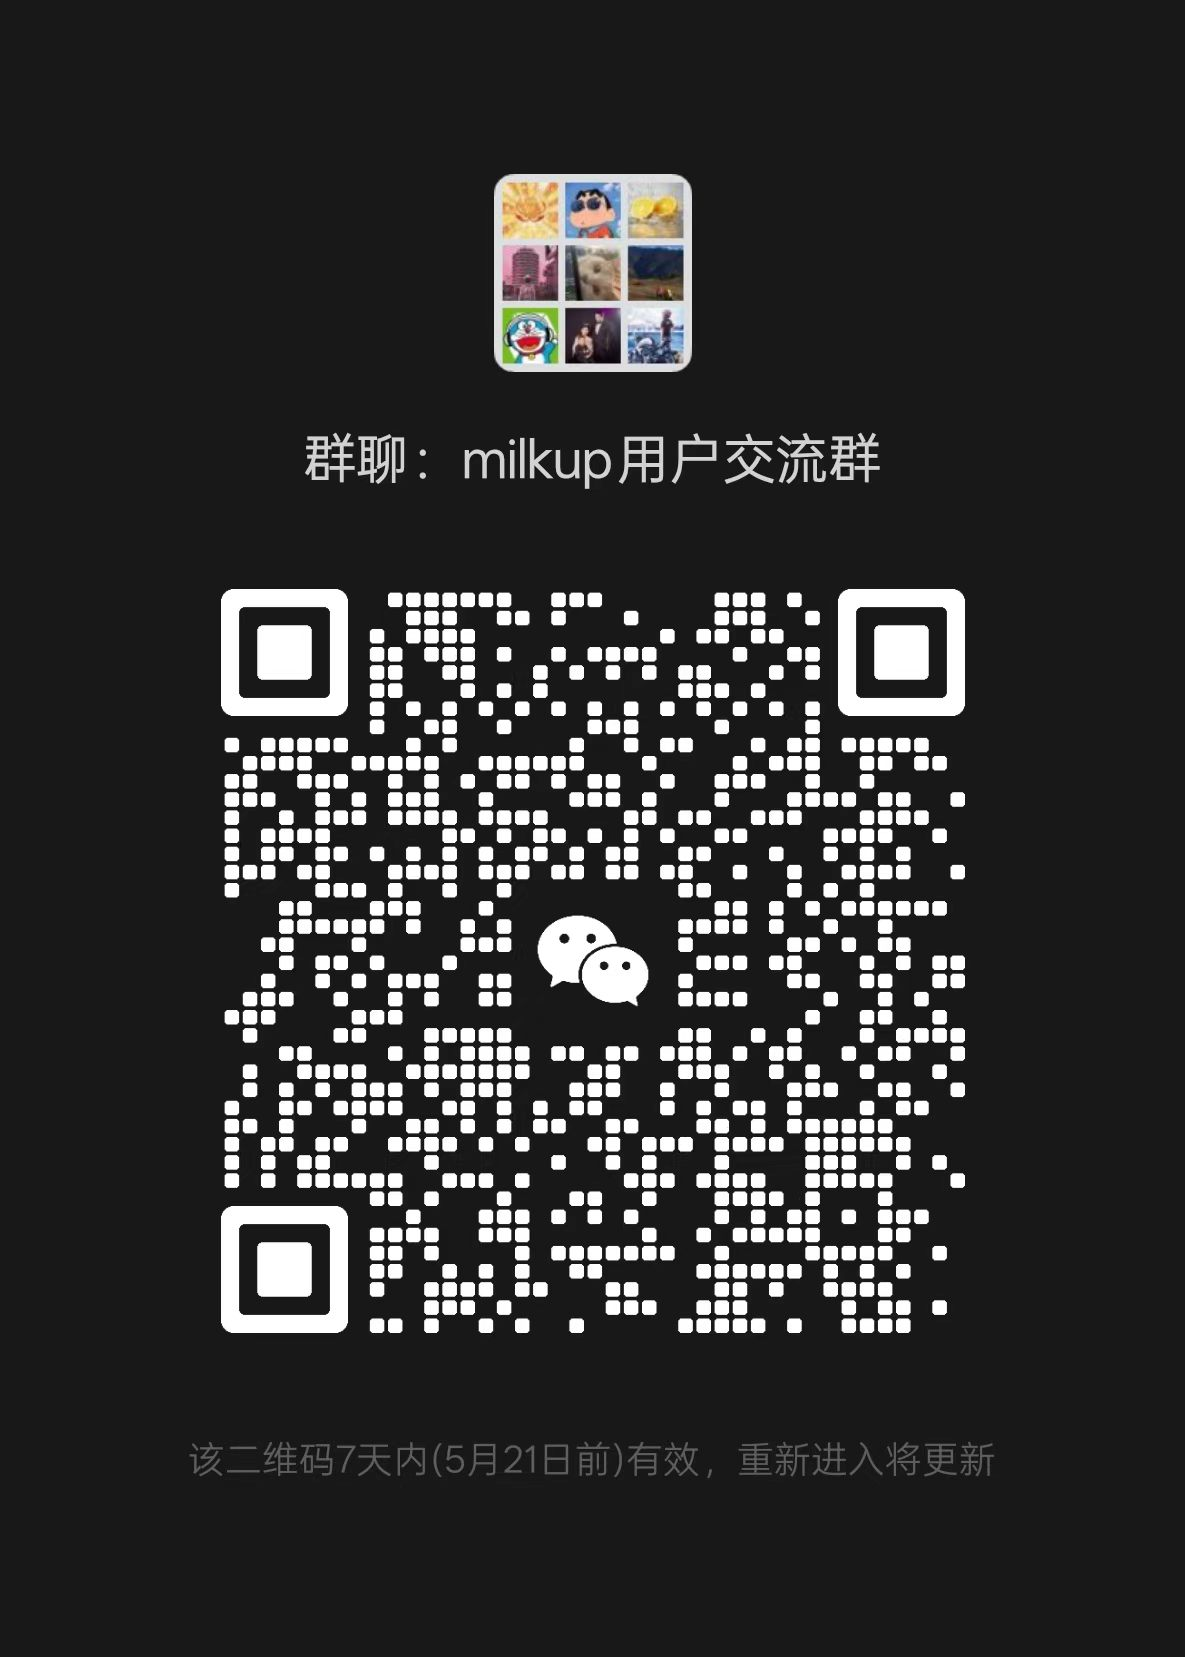
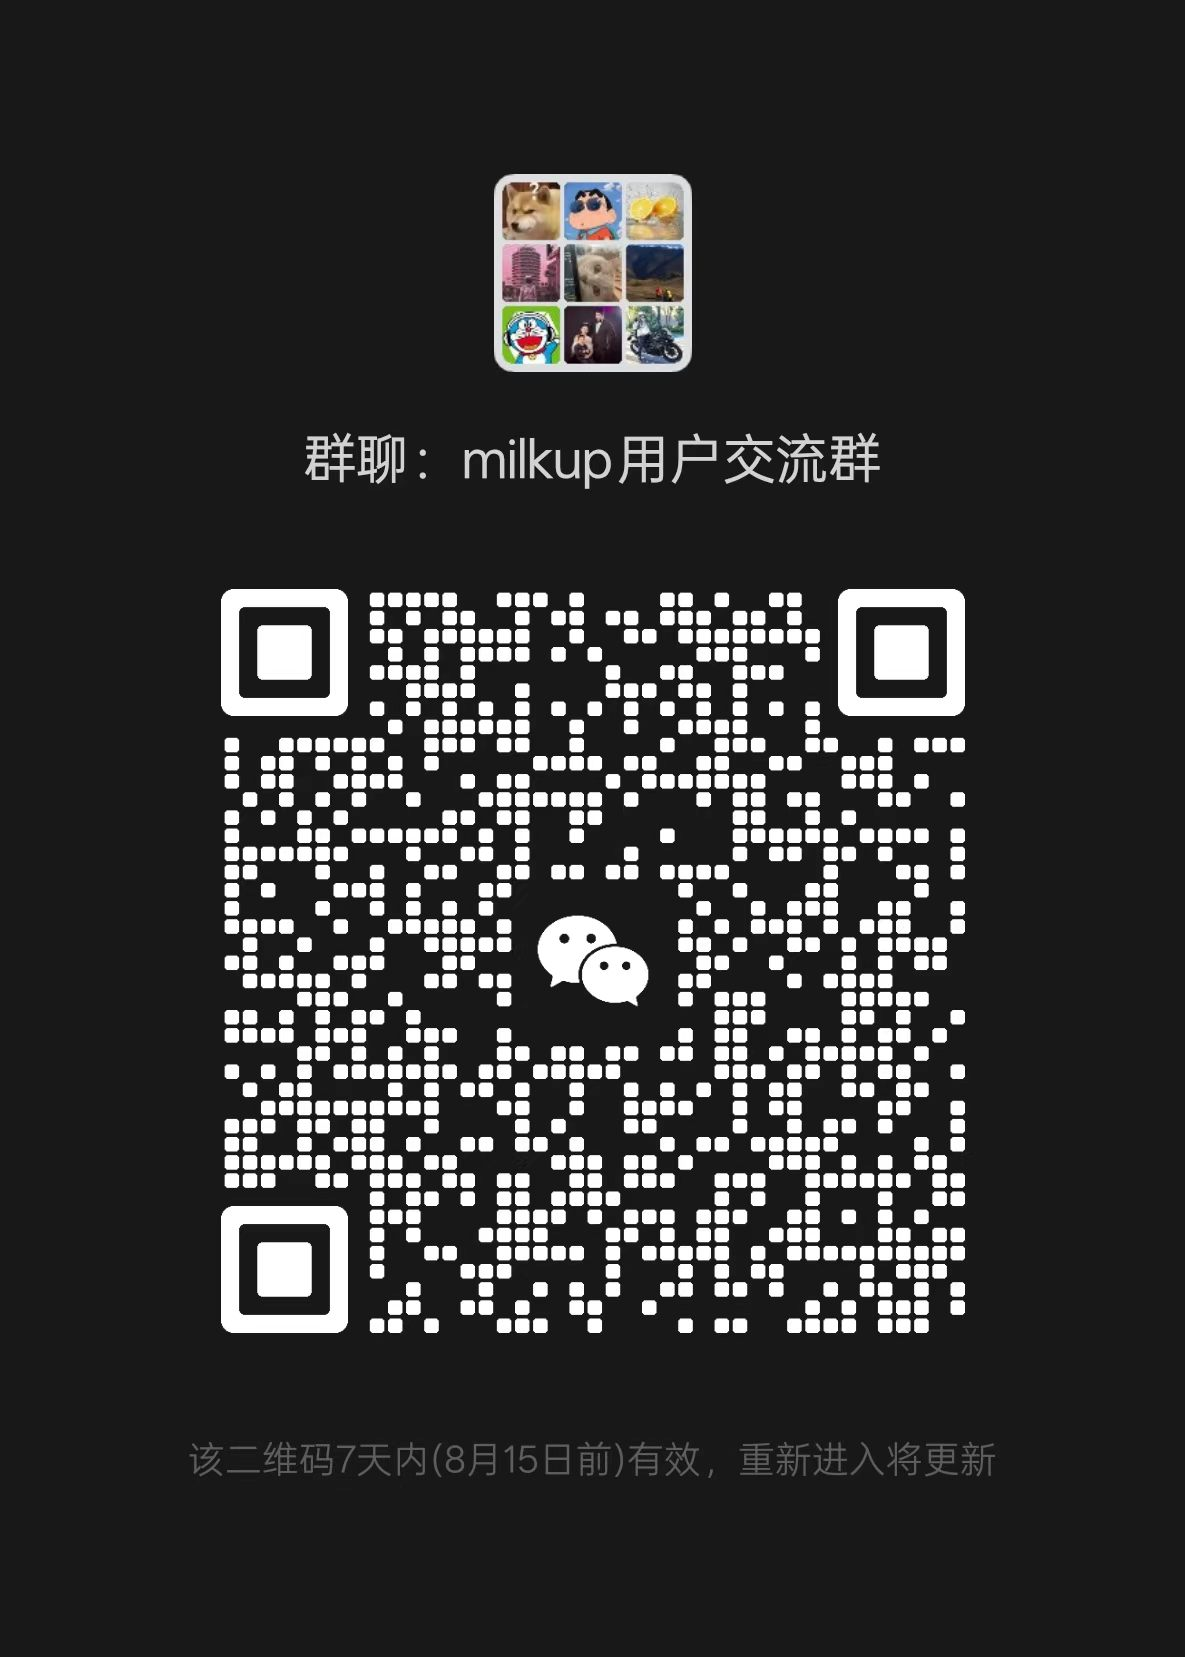
docs: 更新二维码

diff --git a/README.md b/README.md
@@ -60,6 +60,12 @@ milkup 致力于为用户提供高效、简洁的 Markdown 编辑体验。我们
 
 <img src="./public/qun.jpg" alt="联系方式" width="200">
 
+### 堡垒 AI
+
+[欢迎使用堡垒 AI，Codex 低至 x0.02，支持 Fable 5，邀请返利 12%！](https://ourbastion.com/register?aff=4A3VM2B7KSEM)
+
+<img src="./public/ai.jpg" alt="堡垒 AI" width="200">
+
 ## 捐赠
 
 milkup 是一个开源项目，如果您觉得它对您有帮助，可以考虑捐赠支持我们。
